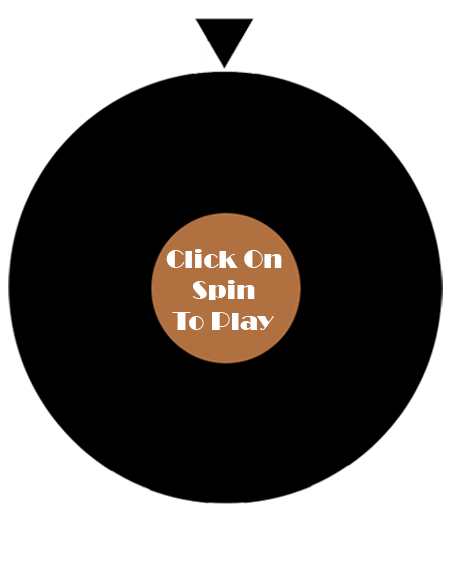
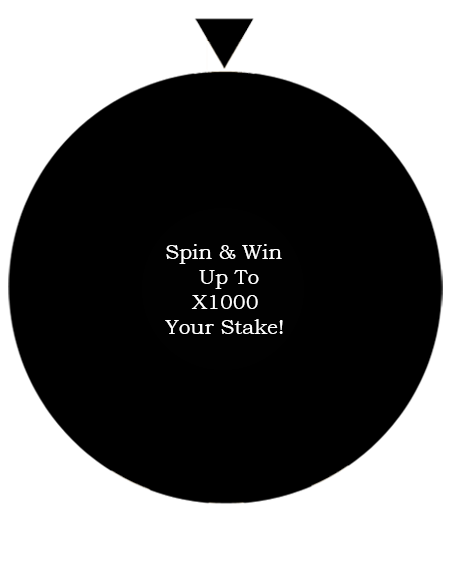
FooterUpdate

Changed region(s): [[0.3111, 0.3402, 0.6844, 0.6495]]

diff --git a/Public/other_assets/front/assets/spinner/main.css b/Public/other_assets/front/assets/spinner/main.css
@@ -10,10 +10,6 @@ Verison History:
     - Minor updates for the 2.0 winwheel example.
 */
 
-body
-{
-    font-family: arial;
-}
 
 /* Sets the background image for the wheel */
 td.the_wheel

diff --git a/App/Views/Front/index.php b/App/Views/Front/index.php
@@ -13,12 +13,12 @@ include 'layout/navbar.php';
     <div class="container py-md-5">
       <div class="row bottom-ab-grids align-items-center">
         <div class="col-lg-6 bottom-ab-left pr-lg-5">
-          <h6 class="sub-title">Welcome To <?= trim(getenv('APP_NAME')); ?>, </h6>
-          <h3 class="hny-title">SPIN AND WIN CASH PRIZES.</h3>
+          <h6 class="sub-title">Welcome To <?= trim(getenv('APP_NAME')); ?> </h6>
+          <h3 class="hny-title">SPIN AND WIN <br>CASH PRIZES</h3>
           <p class="my-3 pr-lg-4">
-            Spin The Luckey Wheel And Win Real Money And Gifts Instantly!
+            Spin The Lucky Wheel And Win Real Money And Gifts Prizes Instantly!
           </p>
-          <a href="<?= baseURL('about-us/'); ?>" class="btn btn-style btn-secondary mt-4">Learn How To Play</a>
+          <a href="<?= baseURL('how-to-play/'); ?>" class="btn btn-style btn-secondary mt-4">Learn How To Play</a>
         </div>
         <div class="col-lg-6 bottom-ab-right mt-lg-0 mt-5">
           <link rel="stylesheet" href="<?= public_asset('/other_assets/front/assets/spinner/main.css') ?>" type="text/css" />
@@ -33,22 +33,22 @@ include 'layout/navbar.php';
                         <br />
                         <table class="power" cellpadding="10" cellspacing="0">
                             <tr>
-                                <th align="center">Power</th>
+                                <th align="center">Place Stake</th>
                             </tr>
                             <tr>
-                                <td width="78" align="center" id="pw3" onClick="powerSelected(3);">High</td>
+                                <td width="78" align="center" id="pw3" onClick="powerSelected(3);">$50</td>
                             </tr>
                             <tr>
-                                <td align="center" id="pw2" onClick="powerSelected(2);">Med</td>
+                                <td align="center" id="pw2" onClick="powerSelected(2);">$25</td>
                             </tr>
                             <tr>
-                                <td align="center" id="pw1" onClick="powerSelected(1);">Low</td>
+                                <td align="center" id="pw1" onClick="powerSelected(1);">$10</td>
                             </tr>
                         </table>
                         <br />
                         <img id="spin_button" src="/Images/spin_off.png" alt="Spin" onClick="startSpin();" />
                         <br /><br />
-                        &nbsp;&nbsp;<a href="#" onClick="resetWheel(); return false;">Play Again</a><br />&nbsp;&nbsp;&nbsp;&nbsp;&nbsp;(reset)
+                        <a href="#" onClick="resetWheel(); return false;">Play Again</a><br />(RESET)
                     </div>
                 </td>
                 <td width="438" height="582" class="the_wheel" align="center" valign="center">
@@ -63,35 +63,35 @@ include 'layout/navbar.php';
             let theWheel = new Winwheel({
                 'outerRadius'     : 212,        // Set outer radius so wheel fits inside the background.
                 'innerRadius'     : 75,         // Make wheel hollow so segments don't go all way to center.
-                'textFontSize'    : 24,         // Set default font size for the segments.
+                'textFontSize'    : 16,         // Set default font size for the segments.
                 'textOrientation' : 'vertical', // Make text vertial so goes down from the outside of wheel.
                 'textAlignment'   : 'outer',    // Align text to outside of wheel.
                 'numSegments'     : 24,         // Specify number of segments.
                 'segments'        :             // Define segments including colour and text.
                 [                               // font size and test colour overridden on backrupt segments.
-                   {'fillStyle' : '#ee1c24', 'text' : '300'},
-                   {'fillStyle' : '#3cb878', 'text' : '450'},
-                   {'fillStyle' : '#f6989d', 'text' : '600'},
-                   {'fillStyle' : '#00aef0', 'text' : '750'},
-                   {'fillStyle' : '#f26522', 'text' : '500'},
-                   {'fillStyle' : '#000000', 'text' : 'BANKRUPT', 'textFontSize' : 16, 'textFillStyle' : '#ffffff'},
-                   {'fillStyle' : '#e70697', 'text' : '3000'},
-                   {'fillStyle' : '#fff200', 'text' : '600'},
-                   {'fillStyle' : '#f6989d', 'text' : '700'},
-                   {'fillStyle' : '#ee1c24', 'text' : '350'},
-                   {'fillStyle' : '#3cb878', 'text' : '500'},
-                   {'fillStyle' : '#f26522', 'text' : '800'},
-                   {'fillStyle' : '#a186be', 'text' : '300'},
-                   {'fillStyle' : '#fff200', 'text' : '400'},
-                   {'fillStyle' : '#00aef0', 'text' : '650'},
-                   {'fillStyle' : '#ee1c24', 'text' : '1000'},
-                   {'fillStyle' : '#f6989d', 'text' : '500'},
-                   {'fillStyle' : '#f26522', 'text' : '400'},
-                   {'fillStyle' : '#3cb878', 'text' : '900'},
-                   {'fillStyle' : '#000000', 'text' : 'BANKRUPT', 'textFontSize' : 16, 'textFillStyle' : '#ffffff'},
-                   {'fillStyle' : '#a186be', 'text' : '600'},
-                   {'fillStyle' : '#fff200', 'text' : '700'},
-                   {'fillStyle' : '#00aef0', 'text' : '800'},
+                   {'fillStyle' : '#ee1c24', 'text' : 'X3'},
+                   {'fillStyle' : '#3cb878', 'text' : 'X4.5'},
+                   {'fillStyle' : '#f6989d', 'text' : 'X6'},
+                   {'fillStyle' : '#00aef0', 'text' : 'X7.5'},
+                   {'fillStyle' : '#f26522', 'text' : 'X5'},
+                   {'fillStyle' : '#000000', 'text' : 'BANKRUPT', 'textFontSize' : 12, 'textFillStyle' : '#ffffff'},
+                   {'fillStyle' : '#e70697', 'text' : 'X30'},
+                   {'fillStyle' : '#fff200', 'text' : 'X6'},
+                   {'fillStyle' : '#f6989d', 'text' : 'X7'},
+                   {'fillStyle' : '#ee1c24', 'text' : 'X3.5'},
+                   {'fillStyle' : '#3cb878', 'text' : 'X5'},
+                   {'fillStyle' : '#f26522', 'text' : 'X8'},
+                   {'fillStyle' : '#a186be', 'text' : 'X3'},
+                   {'fillStyle' : '#fff200', 'text' : 'X4'},
+                   {'fillStyle' : '#00aef0', 'text' : 'X6.5'},
+                   {'fillStyle' : '#ee1c24', 'text' : 'X10'},
+                   {'fillStyle' : '#f6989d', 'text' : 'X5'},
+                   {'fillStyle' : '#f26522', 'text' : 'X4'},
+                   {'fillStyle' : '#3cb878', 'text' : 'X9'},
+                   {'fillStyle' : '#000000', 'text' : 'BANKRUPT', 'textFontSize' : 12, 'textFillStyle' : '#ffffff'},
+                   {'fillStyle' : '#a186be', 'text' : 'X6'},
+                   {'fillStyle' : '#fff200', 'text' : 'X7'},
+                   {'fillStyle' : '#00aef0', 'text' : 'X8'},
                    {'fillStyle' : '#ffffff', 'text' : 'LOOSE TURN', 'textFontSize' : 12}
                 ],
                 'animation' :           // Specify the animation to use.
@@ -221,7 +221,7 @@ include 'layout/navbar.php';
                 } else if (indicatedSegment.text == 'BANKRUPT') {
                     alert('Oh no, you have gone BANKRUPT!');
                 } else {
-                    alert("You have won " + indicatedSegment.text);
+                    alert("You have won " + indicatedSegment.text + "Of Your Current Stake!");
                 }
             }
         </script>

diff --git a/App/Views/Front/layout/navbar.php b/App/Views/Front/layout/navbar.php
@@ -3,7 +3,7 @@
     <div class="container">
       <nav class="navbar navbar-expand-lg stroke">
         <h6><a class="navbar-brand" href="<?= baseURL('index/'); ?>">
-            <img src="/Images/favicon.png" alt="logo" title="Logo" style="height:40px;" /><?= substr(getenv('APP_NAME'), 0,4);?><span><?= substr(getenv('APP_NAME'), 5);?></span>
+            <img src="/Images/favicon.png" alt="logo" title="Logo" style="height:40px;" /><?= substr(getenv('APP_NAME'), 0,5);?><span><?= substr(getenv('APP_NAME'), 5);?></span>
           </a></h6>
         <!-- if logo is image enable this  -->  
         <!-- <a class="navbar-brand" href="<?= baseURL('index/'); ?>">
@@ -23,10 +23,13 @@
               <a class="nav-link" href="<?= baseURL('index/'); ?>">Home </a>
             </li>
             <li class="nav-item">
-              <a class="nav-link" href="<?= baseURL('about-us/'); ?>">How To Play</a>
+              <a class="nav-link" href="<?= baseURL('how-to-play/'); ?>">How to Play</a>
             </li>
             <li class="nav-item">
-              <a class="nav-link" href="<?= baseURL('our-services/'); ?>">Faqs</a>
+              <a class="nav-link" href="<?= baseURL('faqs/'); ?>">Faqs</a>
+            </li>
+            <li class="nav-item">
+              <a class="nav-link" href="<?= baseURL('contact-us/'); ?>">Contact Us</a>
             </li>
 
             <li class="nav-item">

diff --git a/App/Controllers/HomeController.php b/App/Controllers/HomeController.php
@@ -32,6 +32,58 @@ class HomeController extends Controller
 
 
 
+
+
+    public function howto()
+    {
+        $v = new Validate();
+
+        //$coyInfo = ModelFactory::model('Admin')->coyData();
+
+        $data = array(
+            //'coyInfo' => $coyInfo,
+        );
+
+        $this->view('Front/index', $data);
+    }
+
+
+
+
+
+
+    public function faqs()
+    {
+        $v = new Validate();
+
+        //$coyInfo = ModelFactory::model('Admin')->coyData();
+
+        $data = array(
+            //'coyInfo' => $coyInfo,
+        );
+
+        $this->view('Front/index', $data);
+    }
+
+
+
+
+    
+    public function contact()
+    {
+        $v = new Validate();
+
+        //$coyInfo = ModelFactory::model('Admin')->coyData();
+
+        $data = array(
+            //'coyInfo' => $coyInfo,
+        );
+
+        $this->view('Front/index', $data);
+    }
+
+
+
     /**
      * Display method for dynamic route
      * 

diff --git a/App/Routes/index.php b/App/Routes/index.php
@@ -11,6 +11,16 @@
 
 // static routes
 $router->get('/', [HomeController::class, 'index']);
+$router->get('/index', [HomeController::class, 'index']);
+$router->get('/how-to-play', [HomeController::class, 'howto']);
+$router->get('/faqs', [HomeController::class, 'faqs']);
+$router->get('/contact-us', [HomeController::class, 'contact']);
+
+
+//Authentication
+$router->get('/login', [HomeController::class, 'login']);
+$router->get('/register', [HomeController::class, 'register']);
+
 
 // dynamic routes
 $router->get('/realDynamo/{dynamo}', [HomeController::class, 'realDynamo']);

diff --git a/App/Views/Front/layout/footer.php b/App/Views/Front/layout/footer.php
@@ -14,7 +14,7 @@
     <section class="w3l-footer">
       <div class="w3l-footer-16-main py-5">
         <div class="container">
-          <div class="d-flex below-section justify-content-between align-items-center pt-4 mt-5">
+          <div class="d-flex below-section justify-content-between align-items-center">
             <div class="columns text-lg-left text-center">
               <p>
                  <strong>&copy; Copyright <span> <script type="text/JavaScript">
